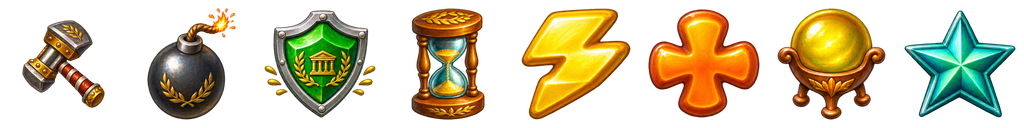
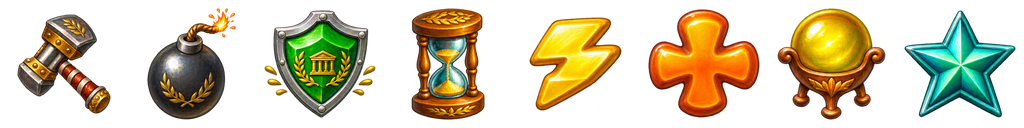
Refine Relic Rush Hammer, Lightning and Leaf fit

Changed region(s): [[0.5, 0.0625, 0.625, 0.9375], [0.0, 0.0938, 0.125, 0.875]]

diff --git a/games/relic-rush/docs/asset-catalogue.md b/games/relic-rush/docs/asset-catalogue.md
@@ -57,8 +57,8 @@ single log in matches.
 Run `python3 games/relic-rush/tools/prepare_resource_pieces.py` to crop the
 measured row bands, columns and revision boxes, trim the transparent exterior and
 uniformly fit each object into a centered 128 px cell with a 112 px maximum
-extent (108 px for the winged sandal). The runtime atlas is
-`art/registered/campaign-pieces.png`. The same sprite appears
+extent (108 px for the winged sandal and 94 px for the diagonal leaf). The
+runtime atlas is `art/registered/campaign-pieces.png`. The same sprite appears
 in matches, refills, resource flights and the guide. The existing selection,
 hint and chain overlays supply their respective states. The game's shop and
 wallet use their own currency artwork. The level 8 first-clear card also uses the
@@ -67,6 +67,8 @@ The sprites are free-standing objects. At the board's actual draw size the
 30 pieces fit the canonical face in strict object mode.
 [Fruit and score review](screenshots/review/fruit-and-score/README.md).
 [Relay pliers review](screenshots/review/relay-pliers/README.md).
+[Board fit at 480 × 900](screenshots/review/piece-fit/board-480x900.jpg) ·
+[Board fit at 390 × 844](screenshots/review/piece-fit/board-390x844.jpg).
 
 ## Resource pieces
 
@@ -425,8 +427,13 @@ cover a zero-charge ring at both phone sizes.
 The eight standalone pieces each have their own silhouette. Board pieces, rewards and toolbar buttons use the same 128 px frames in `data/board/pieces.png`. The four painted navigation icons also live in this atlas. The [board progression](board-progression.md#bonus-pieces) lists each construction reward and effect. All eight items are drawn together in the [painted source](../art/bonus-gems/rome-eight.png). The [manifest](../art/board-states/manifest.json) records source positions and registration. Run `python3 games/relic-rush/tools/prepare_bonus_gems.py` and `python3 tools/match3_atlas.py` to reproduce the frames.
 
 The shared enamel painter draws the five states and exposes the ready face from
-the bottom as each matched gem lands. The inset and the colored piece use the same center of opacity on the button face. The house, Play triangle, expedition map
-and settings gear use the painted materials of the resource pieces in the [shared action atlas](../../../art/match3-buttons/README.md).
+the bottom as each matched gem lands. The inset and the colored piece share an
+anchor on the button face. Hammer uses the center of its silhouette bounds and
+a 100 px fit. Lightning uses a 94 px fit for more clearance around the bolt.
+The other bonus anchors use the center of opacity. The house, Play triangle,
+expedition map and settings gear use the painted materials of the resource
+pieces in the [shared action atlas](../../../art/match3-buttons/README.md).
+[Hammer and Lightning across five states](screenshots/review/piece-fit/bonus-states.jpg).
 [Toolbar at both sizes](screenshots/enamel-toolbar.jpg) · [All bonus states](screenshots/bonus-states.jpg).
 
 Earlier gameplay captures follow.
